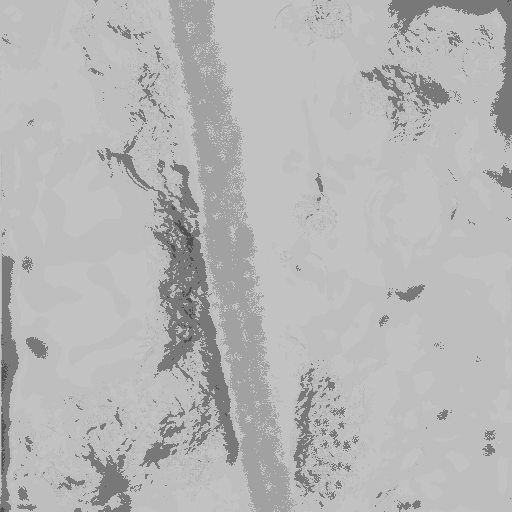
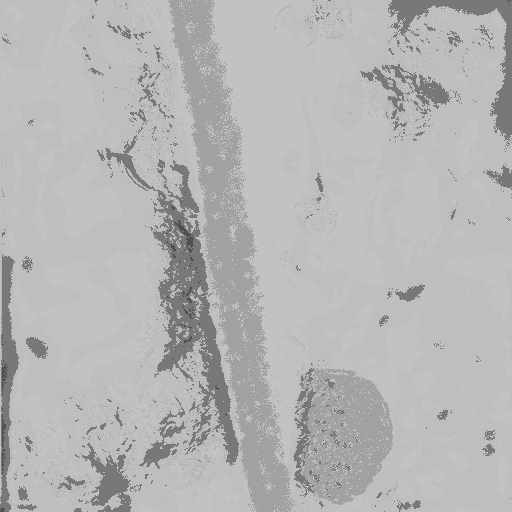
improved water distribution algorithm

Changed region(s): [[0.5625, 0.7188, 0.7812, 1.0]]

diff --git a/src/environment/Water.java b/src/environment/Water.java
@@ -141,7 +141,7 @@ public class Water {
 		this.terrain = terrain;
 		rainfactor = 0.00000051f;
 		oozingfactor = 0.091f;
-		dampingfactor = 0.1f;
+		dampingfactor = 0.05f;
 		
         createCLContext(device_type, Util.getFileContents("./kernel/WaterSim.cl"), drawable);
         createWaterData();
